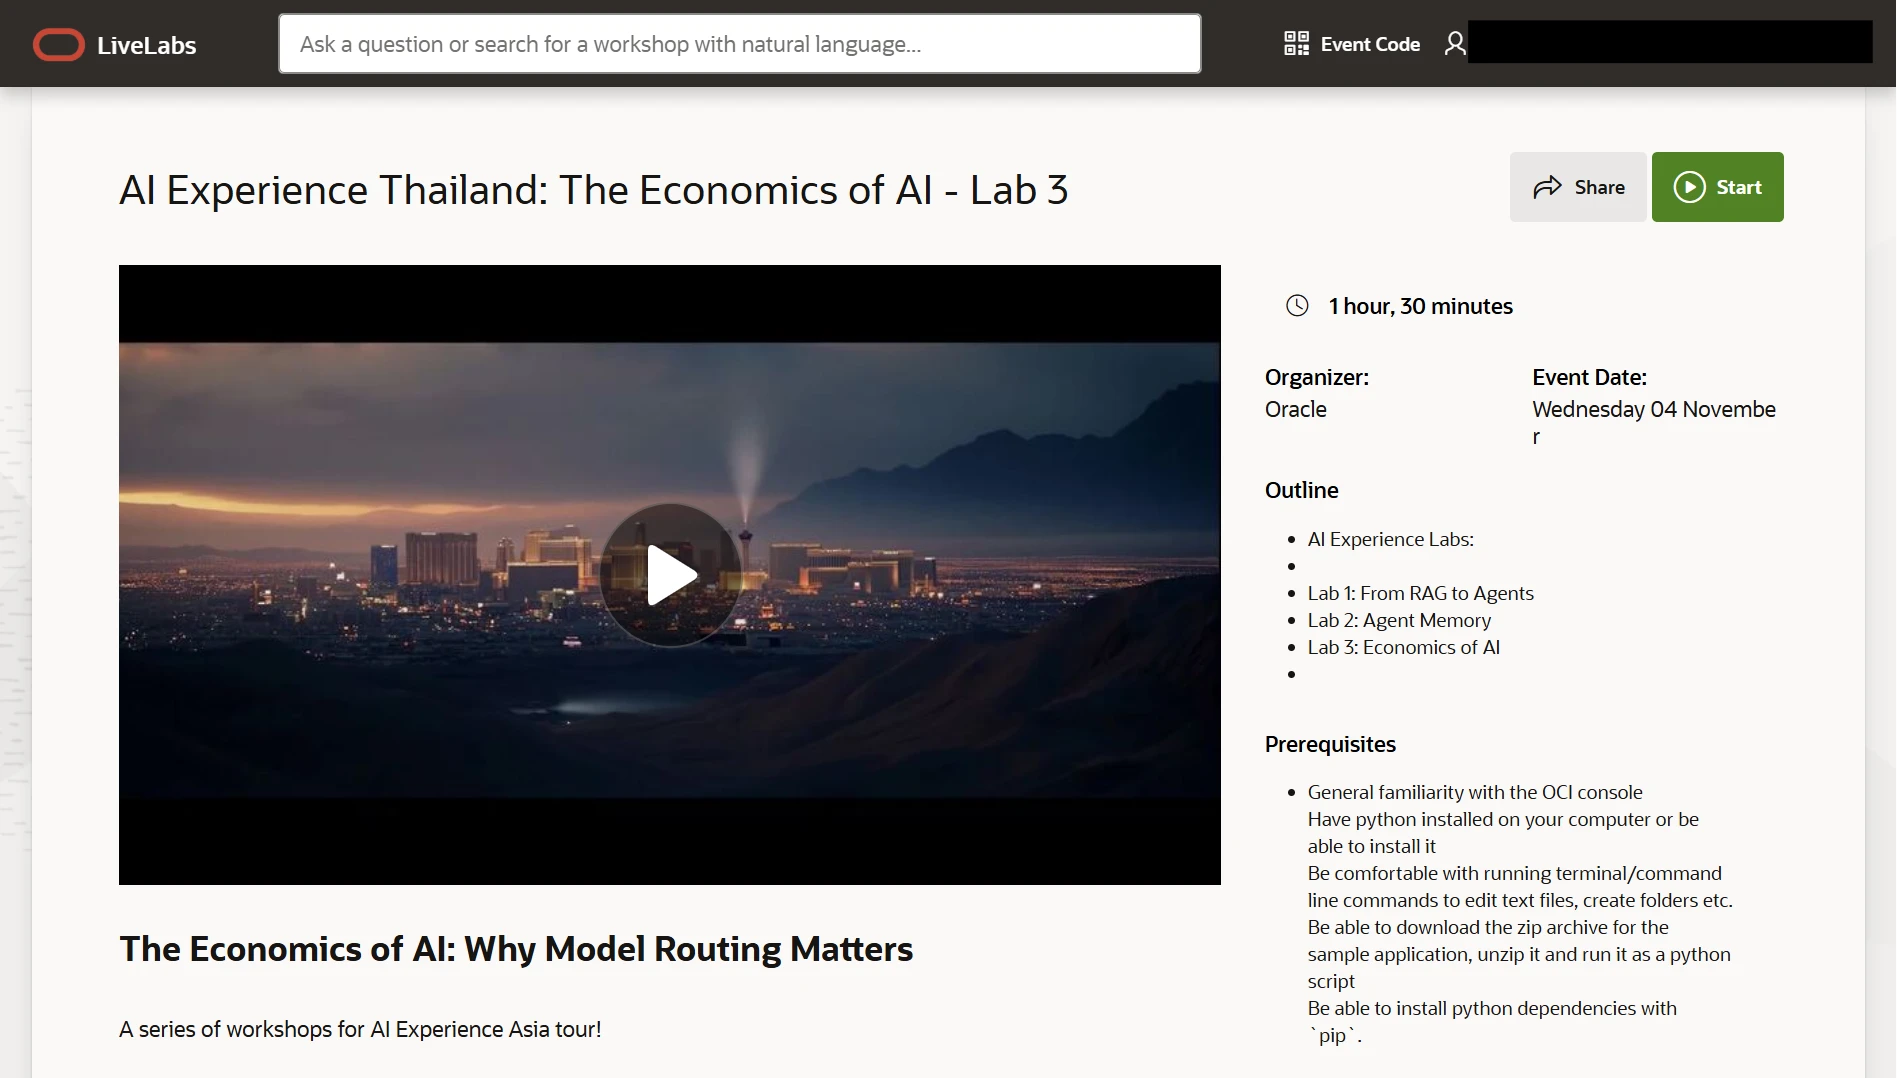
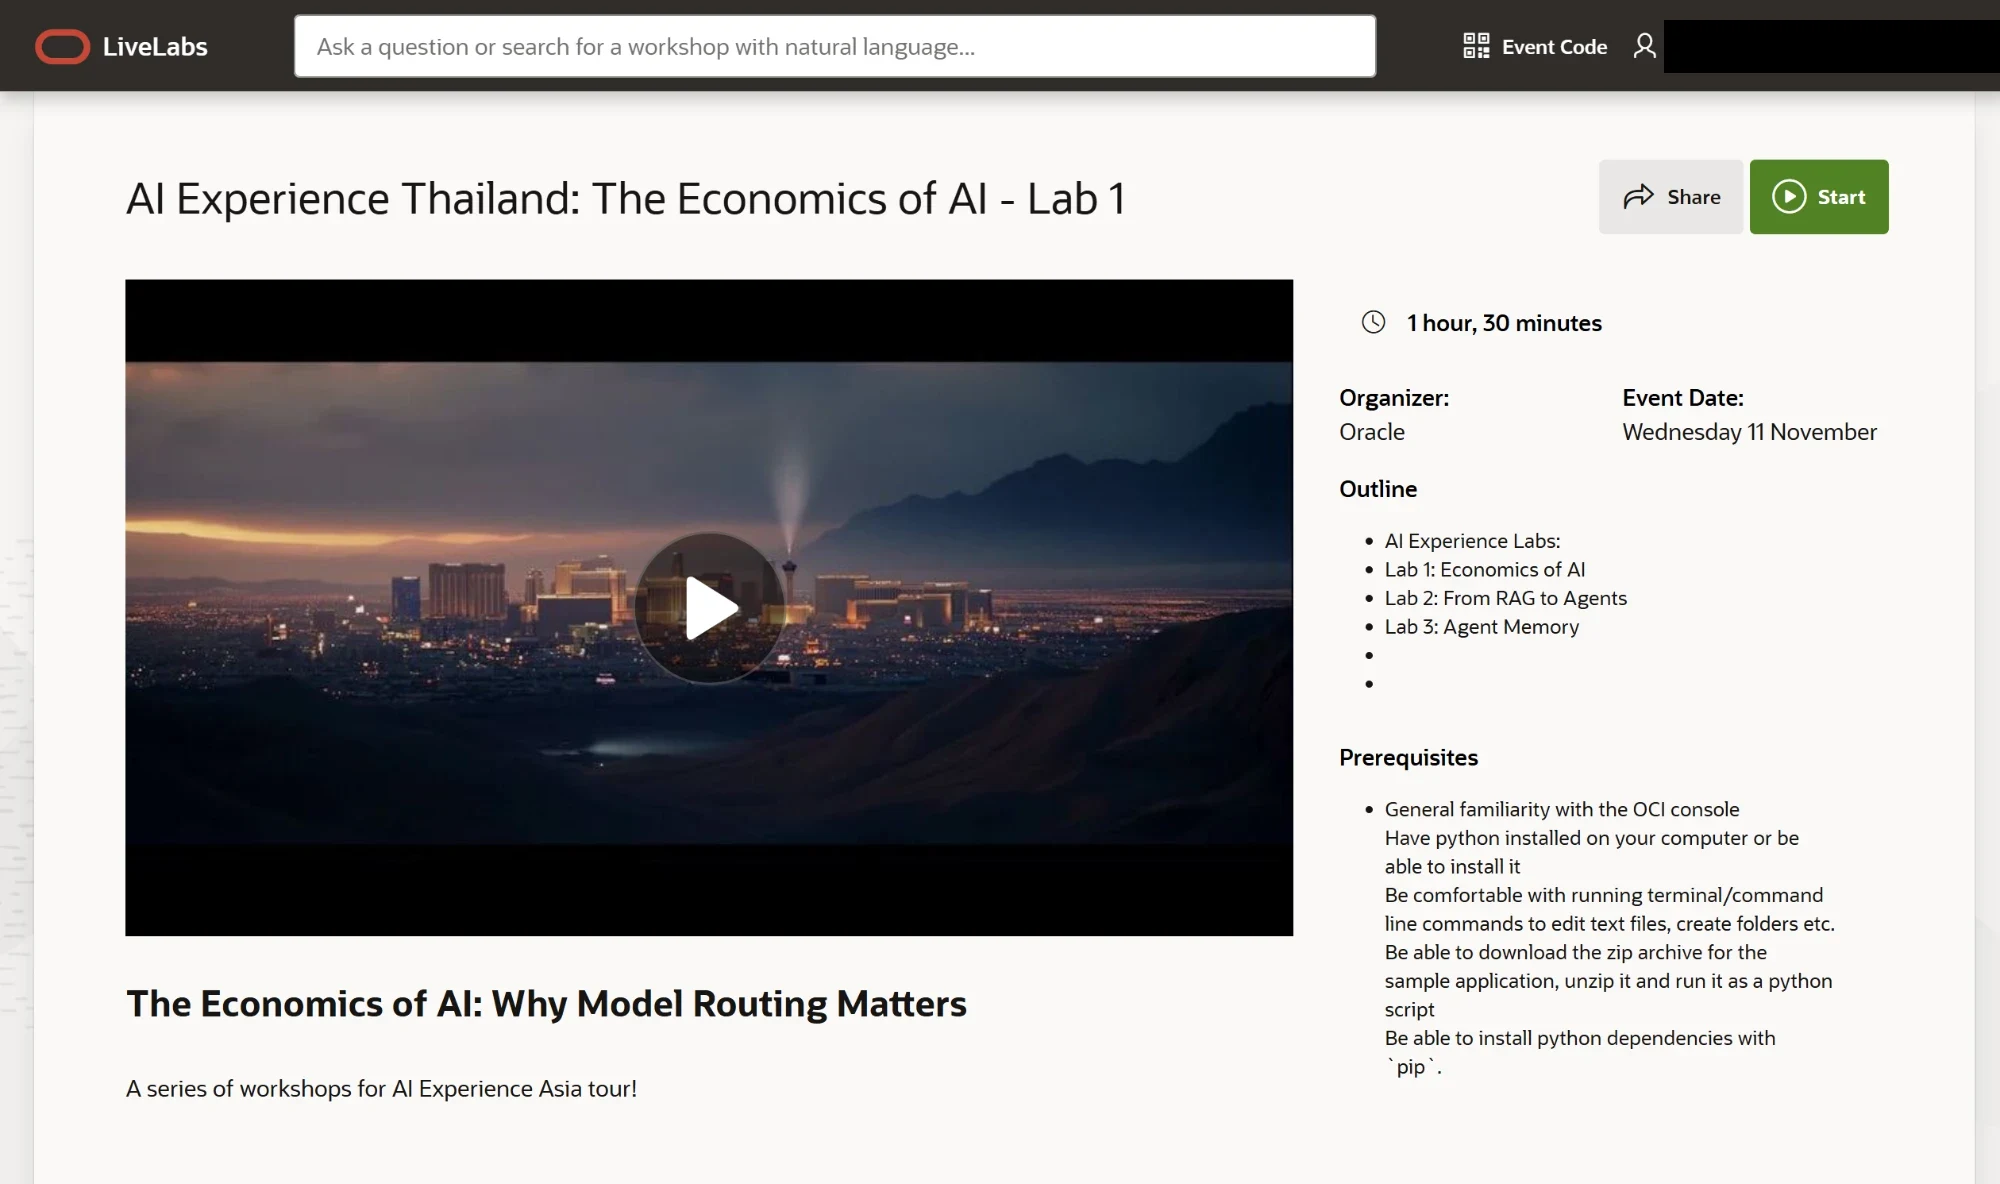
Lab 1 page 0 (Open Lab 1): the new LiveLabs picture with the presenter's email covered, titled 'The Economics of AI - Lab 1' in the picture and the script

diff --git a/src/scenes/labGo.ts b/src/scenes/labGo.ts
@@ -19,7 +19,7 @@ const go = (id: string, chapter: 1 | 2 | 3, key: string, kicker: string, lab: st
   overlayProps: { kicker, lab, url: LAB_LINKS[key].url, line, listed, covers, picture },
 });
 
-export const GO_LAB1 = go('1.0g', 3, '1.0', 'Lab 1 · AI Economics', 'Lab 1', 'Scan the code or type the address to open your lab environment.', 'AI Experience Thailand: The Economics of AI - Lab 3', 'our Lab 1 · AI Economics', economicsShot);
+export const GO_LAB1 = go('1.0g', 3, '1.0', 'Lab 1 · AI Economics', 'Lab 1', 'Scan the code or type the address to open your lab environment.', 'AI Experience Thailand: The Economics of AI - Lab 1', 'our Lab 1 · AI Economics', economicsShot);
 export const GO_LAB2 = go('0.4g', 1, '0.4', 'Lab 2 · RAG to Agents', 'Lab 2', 'Scan the code or type the address to open your lab environment.', 'AI Experience Thailand: AI Labs 1 & 2', 'our Lab 2 (RAG to Agents) and Lab 3 (Agent Memory)', labs12Shot);
 export const GO_LAB3 = go('3.0g', 2, '3.0', 'Lab 3 · Agent Memory', 'Lab 3', 'Lab 3 uses the same environment as Lab 2: keep it open.', 'AI Experience Thailand: AI Labs 1 & 2', 'our Lab 2 (RAG to Agents) and Lab 3 (Agent Memory)', labs12Shot);
 
@@ -27,7 +27,7 @@ export const GO_LAB3 = go('3.0g', 2, '3.0', 'Lab 3 · Agent Memory', 'Lab 3', 'L
 export const GO_LAB3_CODE: SceneDef = { ...GO_LAB3, id: '3.5g', title: 'Open the lab to code', pageZero: false, overlayProps: { ...GO_LAB3.overlayProps, line: 'Now we run it. Open your lab environment: the same one as Lab 2.' } };
 
 export const GO_SCRIPT: Record<string, string> = {
-  '1.0g': 'Before we start Lab 1, open your lab environment. Scan the code, or type the address on the screen. On LiveLabs it is called "The Economics of AI, Lab 3"; that is our Lab 1.',
+  '1.0g': 'Before we start Lab 1, open your lab environment. Scan the code, or type the address on the screen. On LiveLabs it is called "The Economics of AI, Lab 1"; that is our Lab 1.',
   '0.4g': 'Before we start Lab 2, open your lab environment. Scan the code, or type the address on the screen. On LiveLabs it is called "AI Labs 1 and 2"; that is our Lab 2 and Lab 3.',
   '3.5g': 'All right, that was the whole story. Now we run it for real. Please open your lab environment, the same one as Lab 2, with the address or the code on the screen. On LiveLabs it is called AI Labs 1 and 2. Once it is open, we will open the notebook together and watch each part work, one step at a time.',
   '3.0g': 'Lab 3 runs in the same environment as Lab 2. If you closed it, open it again with this address. It is the one called "AI Labs 1 and 2" on LiveLabs.',
